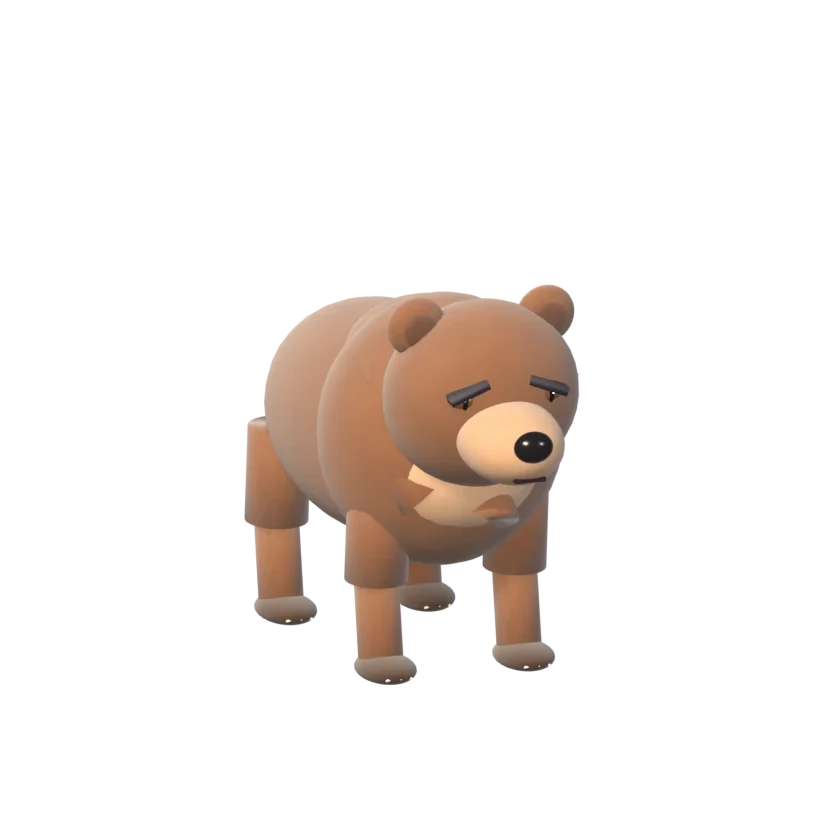
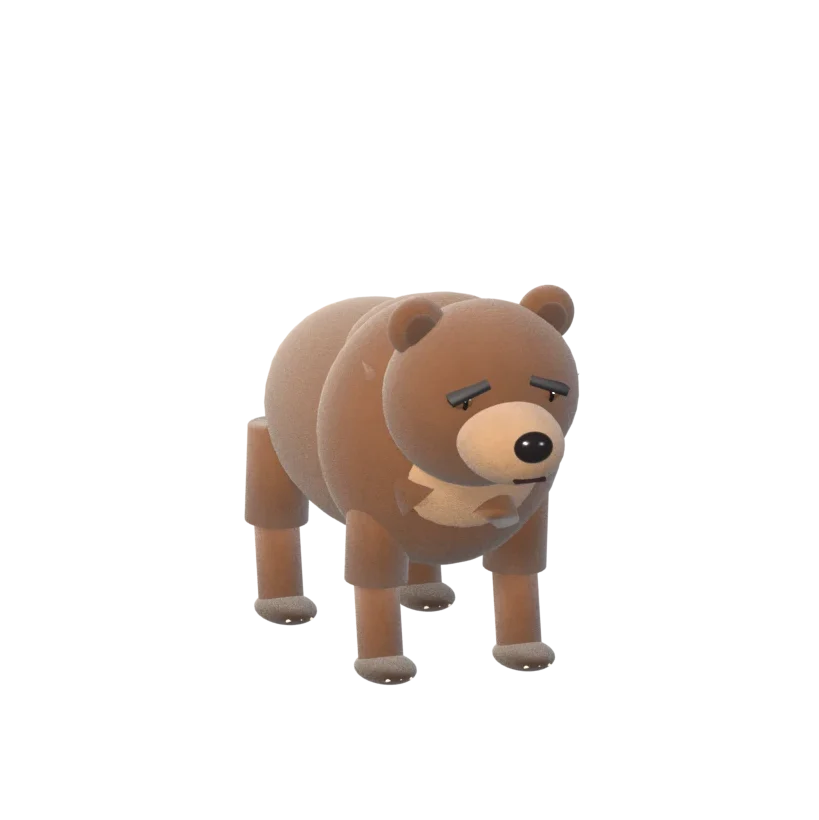
Build a7bf1d984256

diff --git a/index.html b/index.html
@@ -2636,7 +2636,7 @@ function migrateGear(h){ if(h.bag)return;
   const w=eqItem(h,'weapon'); if(w)w.il=1+(h.weapon||0)*5; }
 
 /* item pictures (to-do 3): where each gear piece sits in its front-facing picture (x0,y0,x1,y1 as fractions), made by a script from img/p_*.webp */
-const ICONBOX={"hl_barbarian_1h_blink":[0.46,0.45,0.65,0.499],"hl_barbarian_1h_chest":[0.268,0.551,0.746,0.823],"hl_barbarian_1h_classlook":[0.42,0.451,0.698,0.511],"hl_barbarian_1h_cloak":[0.299,0.573,0.641,0.885],"hl_barbarian_1h_hat":[0.101,0.088,0.911,0.46],"hl_barbarian_1h_head":[0.302,0.264,0.698,0.619],"hl_barbarian_1h_helm":[0.294,0.179,0.732,0.62],"hl_barbarian_1h_hood":[0.294,0.235,0.712,0.591],"hl_barbarian_1h_horns":[0.291,0.198,0.707,0.464],"hl_barbarian_1h_legs":[0.387,0.793,0.662,0.937],"hl_barbarian_2h_blink":[0.46,0.46,0.652,0.511],"hl_barbarian_2h_chest":[0.34,0.551,0.72,0.822],"hl_barbarian_2h_classlook":[0.322,0.46,0.699,0.732],"hl_barbarian_2h_cloak":[0.312,0.571,0.68,0.881],"hl_barbarian_2h_hat":[0.106,0.09,0.915,0.468],"hl_barbarian_2h_head":[0.306,0.265,0.702,0.628],"hl_barbarian_2h_helm":[0.296,0.183,0.733,0.627],"hl_barbarian_2h_hood":[0.298,0.234,0.714,0.6],"hl_barbarian_2h_horns":[0.294,0.202,0.712,0.479],"hl_barbarian_2h_legs":[0.387,0.797,0.665,0.937],"hl_barbarian_dual_blink":[0.46,0.45,0.65,0.499],"hl_barbarian_dual_chest":[0.268,0.551,0.746,0.823],"hl_barbarian_dual_classlook":[0.42,0.451,0.698,0.511],"hl_barbarian_dual_cloak":[0.299,0.573,0.641,0.885],"hl_barbarian_dual_hat":[0.101,0.088,0.911,0.46],"hl_barbarian_dual_head":[0.302,0.264,0.698,0.619],"hl_barbarian_dual_helm":[0.294,0.179,0.732,0.62],"hl_barbarian_dual_hood":[0.294,0.235,0.712,0.591],"hl_barbarian_dual_horns":[0.291,0.198,0.707,0.464],"hl_barbarian_dual_legs":[0.387,0.793,0.662,0.937],"hl_knight_1h_blink":[0.46,0.45,0.65,0.499],"hl_knight_1h_chest":[0.273,0.529,0.746,0.819],"hl_knight_1h_classlook":[0.315,0.536,0.678,0.67],"hl_knight_1h_cloak":[0.298,0.602,0.637,0.887],"hl_knight_1h_hat":[0.101,0.088,0.911,0.46],"hl_knight_1h_head":[0.302,0.226,0.698,0.579],"hl_knight_1h_helm":[0.293,0.179,0.732,0.62],"hl_knight_1h_hood":[0.294,0.235,0.712,0.591],"hl_knight_1h_horns":[0.291,0.198,0.707,0.464],"hl_knight_1h_legs":[0.387,0.801,0.662,0.939],"hl_knight_2h_blink":[0.46,0.46,0.652,0.511],"hl_knight_2h_chest":[0.33,0.536,0.717,0.821],"hl_knight_2h_classlook":[0.327,0.545,0.706,0.666],"hl_knight_2h_cloak":[0.312,0.575,0.68,0.884],"hl_knight_2h_hat":[0.106,0.09,0.915,0.468],"hl_knight_2h_head":[0.306,0.227,0.702,0.586],"hl_knight_2h_helm":[0.296,0.183,0.733,0.627],"hl_knight_2h_hood":[0.298,0.234,0.714,0.6],"hl_knight_2h_horns":[0.294,0.202,0.712,0.479],"hl_knight_2h_legs":[0.387,0.806,0.665,0.939],"hl_knight_dual_blink":[0.46,0.45,0.65,0.499],"hl_knight_dual_chest":[0.273,0.529,0.746,0.819],"hl_knight_dual_classlook":[0.315,0.536,0.678,0.67],"hl_knight_dual_cloak":[0.298,0.602,0.637,0.887],"hl_knight_dual_hat":[0.101,0.088,0.911,0.46],"hl_knight_dual_head":[0.302,0.226,0.698,0.579],"hl_knight_dual_helm":[0.294,0.179,0.732,0.62],"hl_knight_dual_hood":[0.294,0.235,0.712,0.591],"hl_knight_dual_horns":[0.291,0.198,0.707,0.464],"hl_knight_dual_legs":[0.387,0.801,0.662,0.939],"hl_ranger_bow_blink":[0.465,0.455,0.668,0.504],"hl_ranger_bow_chest":[0.35,0.561,0.732,0.819],"hl_ranger_bow_classlook":[0.294,0.442,0.385,0.707],"hl_ranger_bow_cloak":[0.301,0.609,0.514,0.887],"hl_ranger_bow_hat":[0.115,0.094,0.925,0.466],"hl_ranger_bow_head":[0.317,0.27,0.725,0.606],"hl_ranger_bow_helm":[0.307,0.185,0.745,0.625],"hl_ranger_bow_hood":[0.309,0.24,0.725,0.596],"hl_ranger_bow_horns":[0.304,0.203,0.722,0.47],"hl_ranger_bow_legs":[0.397,0.805,0.636,0.949],"hl_wizard_2h_blink":[0.452,0.459,0.657,0.508],"hl_wizard_2h_chest":[0.34,0.547,0.724,0.834],"hl_wizard_2h_classlook":[0.319,0.661,0.688,0.877],"hl_wizard_2h_cloak":[0.312,0.558,0.68,0.897],"hl_wizard_2h_hat":[0.106,0.09,0.915,0.468],"hl_wizard_2h_head":[0.306,0.263,0.702,0.586],"hl_wizard_2h_helm":[0.296,0.183,0.733,0.627],"hl_wizard_2h_hood":[0.298,0.234,0.714,0.6],"hl_wizard_2h_horns":[0.294,0.202,0.712,0.479],"hl_wizard_2h_legs":[0.387,0.815,0.665,0.937],"hw_b_axe":[0.25,0.45,0.992,0.846],"hw_b_bone":[0.309,0.623,0.46,0.987],"hw_b_hatchet":[0.314,0.722,0.436,1.0],"hw_b_mug":[0.234,0.718,0.436,1.0],"hw_b_shield":[0.314,0.547,0.872,1.0],"hw_b_twin":[0.314,0.691,0.938,1.0],"hw_k_grave":[0.304,0.526,0.904,0.916],"hw_k_great":[0.27,0.555,1.0,0.818],"hw_k_rune":[0.27,0.555,1.0,0.818],"hw_k_shield":[0.319,0.54,0.875,0.913],"hw_k_spike":[0.319,0.522,0.893,0.913],"hw_k_sword":[0.319,0.67,0.449,0.913],"hw_k_twin":[0.319,0.635,1.0,0.913],"hw_r_bow":[0.517,0.471,0.753,0.933],"hw_r_dragon":[0.389,0.325,0.763,1.0],"hw_r_elven":[0.416,0.354,0.763,1.0],"hw_r_long":[0.489,0.408,0.766,0.996],"hw_r_recurve":[0.434,0.393,0.758,0.976],"hw_w_crystal":[0.052,0.559,1.0,0.86],"hw_w_ember":[0.052,0.54,0.974,0.86],"hw_w_frost":[0.052,0.551,1.0,0.86],"hw_w_lich":[0.08,0.59,1.0,0.846],"hw_w_staff":[0.052,0.536,0.964,0.86],"hw_w_tome":[0.052,0.526,0.964,0.86],"s_hl_barbarian_1h_cloak":[0.406,0.535,0.479,0.779],"s_hl_barbarian_2h_cloak":[0.373,0.533,0.48,0.779],"s_hl_barbarian_dual_cloak":[0.406,0.535,0.479,0.779],"s_hl_knight_1h_cloak":[0.406,0.535,0.457,0.779],"s_hl_knight_2h_cloak":[0.373,0.539,0.48,0.779],"s_hl_knight_dual_cloak":[0.406,0.535,0.457,0.779],"s_hl_ranger_bow_cloak":[0.373,0.518,0.514,0.771],"s_hl_wizard_2h_cloak":[0.373,0.521,0.477,0.779]};
+const ICONBOX={"hl_barbarian_1h_blink":[0.46,0.45,0.65,0.499],"hl_barbarian_1h_chest":[0.268,0.551,0.746,0.823],"hl_barbarian_1h_classlook":[0.42,0.451,0.698,0.511],"hl_barbarian_1h_cloak":[0.299,0.573,0.641,0.885],"hl_barbarian_1h_hat":[0.101,0.088,0.911,0.46],"hl_barbarian_1h_head":[0.302,0.264,0.698,0.619],"hl_barbarian_1h_helm":[0.294,0.179,0.732,0.62],"hl_barbarian_1h_hood":[0.294,0.235,0.712,0.591],"hl_barbarian_1h_horns":[0.291,0.198,0.707,0.464],"hl_barbarian_1h_legs":[0.387,0.793,0.662,0.937],"hl_barbarian_2h_blink":[0.46,0.46,0.652,0.511],"hl_barbarian_2h_chest":[0.34,0.551,0.72,0.822],"hl_barbarian_2h_classlook":[0.322,0.46,0.699,0.732],"hl_barbarian_2h_cloak":[0.312,0.571,0.68,0.881],"hl_barbarian_2h_hat":[0.106,0.09,0.915,0.468],"hl_barbarian_2h_head":[0.306,0.265,0.702,0.628],"hl_barbarian_2h_helm":[0.296,0.183,0.733,0.627],"hl_barbarian_2h_hood":[0.298,0.234,0.714,0.6],"hl_barbarian_2h_horns":[0.294,0.202,0.712,0.479],"hl_barbarian_2h_legs":[0.387,0.797,0.665,0.937],"hl_barbarian_dual_blink":[0.46,0.45,0.65,0.499],"hl_barbarian_dual_chest":[0.268,0.551,0.746,0.823],"hl_barbarian_dual_classlook":[0.42,0.451,0.698,0.511],"hl_barbarian_dual_cloak":[0.299,0.573,0.641,0.885],"hl_barbarian_dual_hat":[0.101,0.088,0.911,0.46],"hl_barbarian_dual_head":[0.302,0.264,0.698,0.619],"hl_barbarian_dual_helm":[0.294,0.179,0.732,0.62],"hl_barbarian_dual_hood":[0.294,0.235,0.712,0.591],"hl_barbarian_dual_horns":[0.291,0.198,0.707,0.464],"hl_barbarian_dual_legs":[0.387,0.793,0.662,0.937],"hl_knight_1h_blink":[0.46,0.45,0.65,0.499],"hl_knight_1h_chest":[0.273,0.529,0.746,0.819],"hl_knight_1h_classlook":[0.315,0.536,0.678,0.67],"hl_knight_1h_cloak":[0.298,0.602,0.637,0.887],"hl_knight_1h_hat":[0.101,0.088,0.911,0.46],"hl_knight_1h_head":[0.302,0.226,0.698,0.579],"hl_knight_1h_helm":[0.293,0.179,0.732,0.62],"hl_knight_1h_hood":[0.294,0.235,0.712,0.591],"hl_knight_1h_horns":[0.291,0.198,0.707,0.464],"hl_knight_1h_legs":[0.387,0.801,0.662,0.939],"hl_knight_2h_blink":[0.46,0.46,0.652,0.511],"hl_knight_2h_chest":[0.33,0.536,0.717,0.821],"hl_knight_2h_classlook":[0.327,0.545,0.706,0.666],"hl_knight_2h_cloak":[0.312,0.575,0.68,0.884],"hl_knight_2h_hat":[0.106,0.09,0.915,0.468],"hl_knight_2h_head":[0.306,0.227,0.702,0.586],"hl_knight_2h_helm":[0.296,0.183,0.733,0.627],"hl_knight_2h_hood":[0.298,0.234,0.714,0.6],"hl_knight_2h_horns":[0.294,0.202,0.712,0.479],"hl_knight_2h_legs":[0.387,0.806,0.665,0.939],"hl_knight_dual_blink":[0.46,0.45,0.65,0.499],"hl_knight_dual_chest":[0.273,0.529,0.746,0.819],"hl_knight_dual_classlook":[0.315,0.536,0.678,0.67],"hl_knight_dual_cloak":[0.298,0.602,0.637,0.887],"hl_knight_dual_hat":[0.101,0.088,0.911,0.46],"hl_knight_dual_head":[0.302,0.226,0.698,0.579],"hl_knight_dual_helm":[0.294,0.179,0.732,0.62],"hl_knight_dual_hood":[0.294,0.235,0.712,0.591],"hl_knight_dual_horns":[0.291,0.198,0.707,0.464],"hl_knight_dual_legs":[0.387,0.801,0.662,0.939],"hl_ranger_bow_blink":[0.465,0.455,0.668,0.504],"hl_ranger_bow_chest":[0.35,0.561,0.732,0.819],"hl_ranger_bow_classlook":[0.294,0.442,0.385,0.707],"hl_ranger_bow_cloak":[0.301,0.609,0.514,0.887],"hl_ranger_bow_hat":[0.115,0.094,0.925,0.466],"hl_ranger_bow_head":[0.317,0.27,0.725,0.606],"hl_ranger_bow_helm":[0.307,0.185,0.745,0.625],"hl_ranger_bow_hood":[0.309,0.24,0.725,0.596],"hl_ranger_bow_horns":[0.304,0.203,0.722,0.47],"hl_ranger_bow_legs":[0.397,0.805,0.636,0.949],"hl_wizard_2h_blink":[0.452,0.459,0.657,0.508],"hl_wizard_2h_chest":[0.34,0.547,0.724,0.834],"hl_wizard_2h_classlook":[0.319,0.661,0.688,0.877],"hl_wizard_2h_cloak":[0.312,0.558,0.68,0.897],"hl_wizard_2h_hat":[0.106,0.09,0.915,0.468],"hl_wizard_2h_head":[0.306,0.263,0.702,0.586],"hl_wizard_2h_helm":[0.296,0.183,0.733,0.627],"hl_wizard_2h_hood":[0.298,0.234,0.714,0.6],"hl_wizard_2h_horns":[0.294,0.202,0.712,0.479],"hl_wizard_2h_legs":[0.387,0.815,0.665,0.937],"hw_b_axe":[0.25,0.45,0.992,0.846],"hw_b_bone":[0.309,0.623,0.46,0.987],"hw_b_hatchet":[0.314,0.722,0.436,1.0],"hw_b_mug":[0.234,0.718,0.436,1.0],"hw_b_shield":[0.314,0.547,0.872,1.0],"hw_b_twin":[0.314,0.691,0.938,1.0],"hw_k_grave":[0.304,0.526,0.904,0.916],"hw_k_great":[0.27,0.555,1.0,0.818],"hw_k_rune":[0.27,0.555,1.0,0.818],"hw_k_shield":[0.319,0.54,0.875,0.913],"hw_k_spike":[0.319,0.522,0.893,0.913],"hw_k_sword":[0.319,0.67,0.449,0.913],"hw_k_twin":[0.319,0.635,1.0,0.913],"hw_r_bow":[0.517,0.471,0.753,0.933],"hw_r_dragon":[0.389,0.325,0.763,1.0],"hw_r_elven":[0.416,0.354,0.763,1.0],"hw_r_long":[0.489,0.408,0.766,0.996],"hw_r_recurve":[0.434,0.393,0.758,0.976],"hw_w_crystal":[0.052,0.559,1.0,0.86],"hw_w_ember":[0.052,0.54,0.974,0.86],"hw_w_frost":[0.052,0.551,1.0,0.86],"hw_w_lich":[0.08,0.59,1.0,0.846],"hw_w_staff":[0.052,0.536,0.964,0.86],"hw_w_tome":[0.052,0.526,0.964,0.86],"s_hl_barbarian_1h_cloak":[0.406,0.535,0.479,0.779],"s_hl_barbarian_2h_cloak":[0.373,0.533,0.48,0.779],"s_hl_barbarian_dual_cloak":[0.406,0.535,0.479,0.779],"s_hl_knight_1h_cloak":[0.406,0.535,0.457,0.779],"s_hl_knight_2h_cloak":[0.373,0.539,0.48,0.779],"s_hl_knight_dual_cloak":[0.406,0.535,0.457,0.779],"s_hl_ranger_bow_cloak":[0.373,0.518,0.514,0.771],"s_hl_wizard_2h_cloak":[0.373,0.521,0.477,0.779],"s_pt_bear2_collar":[0.611,0.389,0.68,0.557],"s_pt_bear2_harness":[0.408,0.387,0.557,0.588],"s_pt_bear_collar":[0.611,0.389,0.68,0.557],"s_pt_bear_harness":[0.408,0.387,0.557,0.588],"s_pt_dragon2_charm":[0.594,0.516,0.602,0.521],"s_pt_dragon2_collar":[0.553,0.49,0.578,0.521],"s_pt_dragon2_harness":[0.41,0.391,0.52,0.475],"s_pt_dragon_charm":[0.594,0.516,0.602,0.521],"s_pt_dragon_collar":[0.553,0.49,0.578,0.521],"s_pt_dragon_harness":[0.408,0.391,0.52,0.527],"s_pt_fox2_collar":[0.621,0.477,0.641,0.545],"s_pt_fox2_harness":[0.398,0.432,0.531,0.572],"s_pt_fox_collar":[0.621,0.477,0.641,0.545],"s_pt_fox_harness":[0.398,0.432,0.531,0.572],"s_pt_owl2_collar":[0.484,0.293,0.508,0.328],"s_pt_owl2_harness":[0.359,0.254,0.428,0.41],"s_pt_owl_collar":[0.484,0.293,0.508,0.328],"s_pt_owl_harness":[0.359,0.254,0.428,0.41],"s_pt_sprite2_collar":[0.488,0.285,0.502,0.307],"s_pt_sprite2_harness":[0.424,0.273,0.467,0.381],"s_pt_sprite_collar":[0.488,0.285,0.502,0.307],"s_pt_sprite_harness":[0.424,0.273,0.467,0.381],"s_pt_wolf2_collar":[0.639,0.469,0.654,0.512],"s_pt_wolf2_harness":[0.4,0.408,0.564,0.541],"s_pt_wolf_collar":[0.639,0.469,0.654,0.512],"s_pt_wolf_harness":[0.4,0.408,0.564,0.541]};
 /* ---------- drawing the layered hero ---------- */
 /* hero sheets: 35 frames. 0 idle, 1-6 run, 7-11 attack, 12-26 skills, 27 hit, 28 cheer, 29-34 the in-between run frames (session 3).
    WALK12 plays the run as a smooth 12-step stride. */
@@ -2647,7 +2647,7 @@ const HN=35, MN=8, HF={idle:0,walk:1,atk:7,s0:12,s1:17,s2:22,hit:27,cheer:28}, M
 const animBase=a=>a==='a'||a==null?HF.atk:HF['s'+a];
 /* Forge looks (session 4): +3 runes, +6 glowing edges and tip crystals (their own rendered sheets), +9 a live pulsing blaze */
 /* art switches: turned on as each batch of new pictures ships (session 4) */
-const ART={wtier:0,pets:0};
+const ART={wtier:0,pets:1};
 const weaponTier=w=>!ART.wtier?'':w&&w.lv>=6?'_t2':w&&w.lv>=3?'_t1':'';
 const CLASS_LOOK_LV=25, CLASS_LOOK_LV2=50;
 function heroLayers(h){ const w=eqItem(h,'weapon'), wk=w?w.k:STARTER[h.cls], base='hl_'+h.cls+'_'+WEAPONS[wk].g+'_', it=s=>eqItem(h,s), L=[];

diff --git a/sw.js b/sw.js
@@ -1,5 +1,5 @@
 // Hearthguard offline helper. VERSION changes with every build so updates arrive on their own.
-const VERSION = 'hg-41fdfbcde5ff';
+const VERSION = 'hg-a7bf1d984256';
 const CORE = ['./', 'index.html', 'manifest.webmanifest', 'icon-180.png', 'icon-512.png'];
 self.addEventListener('install', e => { e.waitUntil(caches.open(VERSION).then(c => c.addAll(CORE)).then(() => self.skipWaiting())); });
 self.addEventListener('activate', e => {
